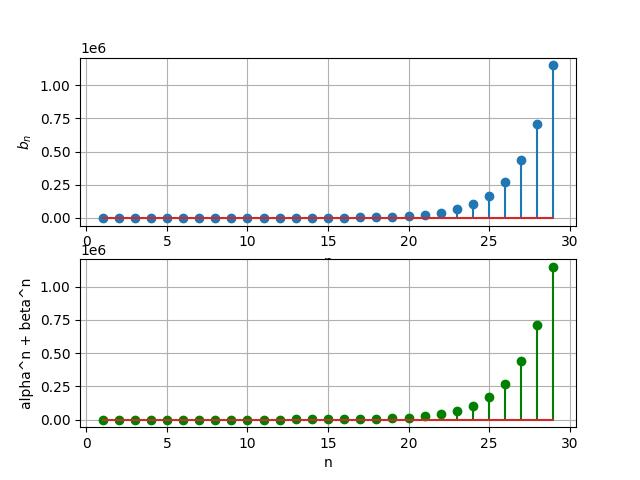
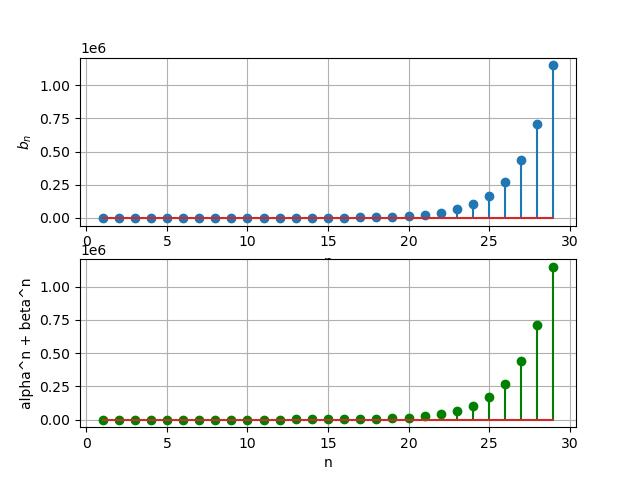
31102022 - 22.43 - pingala test run termux

diff --git a/pingala/codes/e1.py b/pingala/codes/e1.py
@@ -52,7 +52,7 @@ ax2.set_xlabel("n")
 ax2.set_ylabel("$\sum_{k=1}^{n}a_k$")
 ax2.grid(True, which='both')
 
-plt.savefig('/media/darkwake/VIB2/EE3900/pingala/figs/e1.1.jpg')
+plt.savefig('EE3900/pingala/figs/e1.1.jpg')
 plt.show()
 
 truecount = 0
@@ -104,7 +104,7 @@ ax2.stem(x, y2, linefmt='-g', markerfmt='og')
 ax2.set_xlabel("n")
 ax2.set_ylabel(f"alpha^n + beta^n")
 ax2.grid(True, which='both')
-plt.savefig('/media/darkwake/VIB2/EE3900/pingala/figs/e1.3.jpg')
+plt.savefig('EE3900/pingala/figs/e1.3.jpg')
 plt.show()
 truecount = 0
 for i in range(len(y1)):
